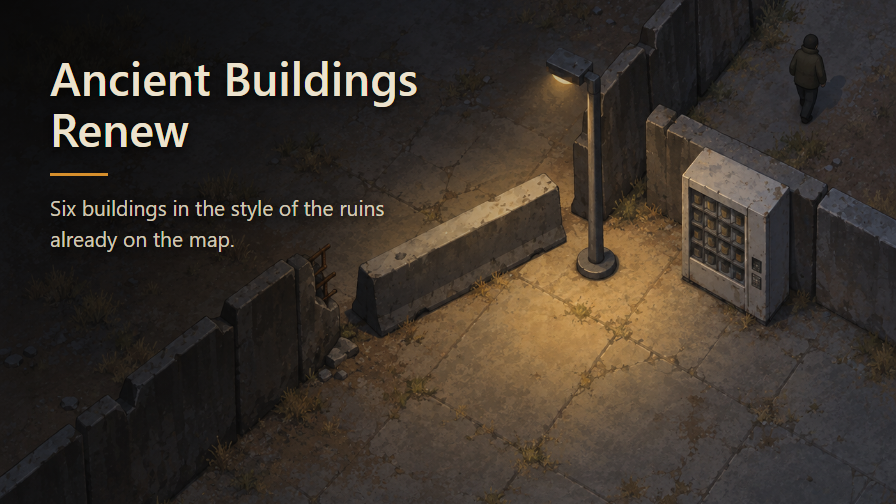
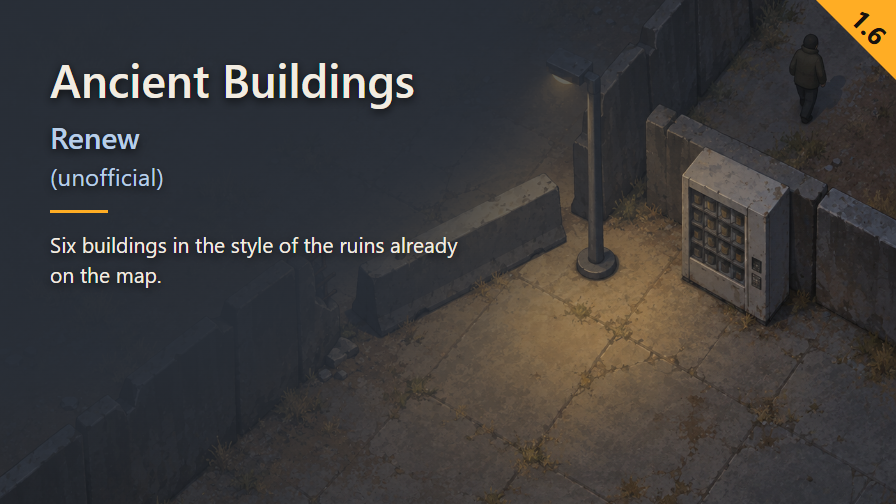
Recompose preview with style guide typography and verified palette

diff --git a/Art/preview.html b/Art/preview.html
@@ -1,0 +1,51 @@
+<!doctype html>
+<meta charset="utf-8">
+<title>Ancient Buildings Renew preview</title>
+<style>
+* { box-sizing: border-box; margin: 0; padding: 0; }
+html, body { width: 896px; height: 504px; overflow: hidden; }
+body { font-family: "Segoe UI", system-ui, sans-serif; }
+.frame { position: relative; width: 896px; height: 504px;
+  background: url('Preview.png') center/cover no-repeat; }
+.veil { position: absolute; inset: 0;
+  background: radial-gradient(ellipse 900px 680px at top left, rgba(var(--veil-rgb), .94) 0%, rgba(var(--veil-rgb), .90) 55%, rgba(var(--veil-rgb), 0) 100%); }
+.text { position: absolute; left: 50px; top: 54px;
+  color: var(--inkPrimary); text-shadow: 0 3px 10px rgba(0,0,0,.75); }
+h1 { font-size: 46px; font-weight: 600; line-height: 1.1; letter-spacing: 0; }
+h1 .suffix { font-size: .65em; color: var(--inkSecondary); }
+.tag { margin-top: 8px; font-size: 24px; font-weight: 400; line-height: 1.1;
+  letter-spacing: .2px; color: var(--inkSecondary); }
+.rule { width: 58px; height: 3px; background: var(--accent); margin: 20px 0 16px; }
+p { width: 430px; font-size: 21px; font-weight: 400; line-height: 1.45; letter-spacing: 0; }
+.badge { position: absolute; right: 0; top: 0; width: 80px; height: 80px;
+  clip-path: polygon(0 0,100% 0,100% 100%); background: var(--accent); }
+.version { position: absolute; left: 869px; top: 27px;
+  transform: translate(-50%,-50%) rotate(45deg); color: var(--badgeInk);
+  font-size: 26px; font-weight: 700; line-height: 1; }
+</style>
+<div class="frame">
+  <div class="veil"></div>
+  <div class="text">
+    <h1>Ancient Buildings<br><span class="suffix">Renew</span></h1>
+    <div class="tag">(unofficial)</div>
+    <div class="rule"></div>
+    <p>Six buildings in the style of the ruins already on the map.</p>
+  </div>
+  <div class="badge"></div><div class="version"></div>
+</div>
+<script>
+window.previewReady = (async () => {
+  const palette = await (await fetch('preview-palette.json')).json();
+  for (const [key,value] of Object.entries(palette)) document.documentElement.style.setProperty('--'+key,value);
+  document.documentElement.style.setProperty('--veil-rgb', palette.veil.match(/[a-f\d]{2}/gi).map(v=>parseInt(v,16)).join(','));
+  const xml = new DOMParser().parseFromString(await (await fetch('../Mod/About/About.xml')).text(),'application/xml');
+  const versions = [...xml.querySelectorAll('supportedVersions > li')].map(e=>e.textContent.trim()).filter(v=>/^\d+(\.\d+)+$/.test(v));
+  versions.sort((a,b)=>{const aa=a.split('.').map(Number),bb=b.split('.').map(Number); for(let i=0;i<Math.max(aa.length,bb.length);i++){const d=(bb[i]||0)-(aa[i]||0);if(d)return d;}return 0;});
+  if (!versions.length) throw new Error('No declared stable version');
+  document.querySelector('.version').textContent=versions[0];
+  await document.fonts.ready;
+  await Promise.all([...document.images].map(i=>i.decode()));
+  const bg = new Image(); bg.src='Preview.png'; await bg.decode();
+})();
+</script>
+

diff --git a/_tools/preview.html b/_tools/preview.html
@@ -1,70 +1,4 @@
 <!doctype html>
 <meta charset="utf-8">
-<title>Preview</title>
-<style>
-  /* The page IS the banner: 896 x 504, no margin, no scrollbar. Chrome headless
-     screenshots it at exactly this size, so the text is composed at its final
-     size and the glyphs are never resampled. The background image is the
-     full-resolution source, scaled here rather than beforehand. */
-  html, body { margin: 0; padding: 0; }
-  body { width: 896px; height: 504px; overflow: hidden; }
-
-  /* The source is 1402 x 1122, nearly 5:4, so cover crops a band off the top
-     and the bottom. Both are bare ground: dark gravel above, empty flagstones
-     below. The lamp, the barrier, the vending cabinet and the walking settler
-     all sit in the middle band and survive untouched. */
-  .frame {
-    position: relative;
-    width: 896px; height: 504px;
-    background: url("../Art/Preview-source.png") center/cover no-repeat;
-  }
-
-  /* Radial darkening from the top-left corner, so the title sits on a calm
-     ground without a visible rectangle. Values from STYLE_RIMWORLD.md. */
-  .frame::after {
-    content: "";
-    position: absolute; inset: 0;
-    background: radial-gradient(circle at 0% 0%,
-                rgba(6, 5, 4, .86) 0%,
-                rgba(6, 5, 4, 0) 74%);
-  }
-
-  .text {
-    position: absolute; z-index: 1;
-    left: 50px; top: 52px;
-    font-family: "Segoe UI", system-ui, sans-serif;
-    color: #ECE2CD;
-    text-shadow: 0 3px 10px rgba(0, 0, 0, .75);
-  }
-
-  /* Two lines at 46: on one line the name runs past 700px and crosses the
-     barrier into the lit half. */
-  h1 {
-    margin: 0;
-    font-size: 46px; font-weight: 600; line-height: 1.1;
-    letter-spacing: .2px;
-  }
-
-  .rule {
-    width: 58px; height: 3px;
-    background: #D68F2C;
-    margin: 20px 0 16px;
-  }
-
-  /* 400px rather than the usual 430: past that the second line reaches the
-     left tip of the concrete barrier. */
-  p {
-    margin: 0;
-    width: 400px;
-    font-size: 21px; font-weight: 400; line-height: 1.45;
-    color: rgba(236, 226, 205, .88);
-  }
-</style>
-
-<div class="frame">
-  <div class="text">
-    <h1>Ancient Buildings<br>Renew</h1>
-    <div class="rule"></div>
-    <p>Six buildings in the style of the ruins already on the map.</p>
-  </div>
-</div>
+<meta http-equiv="refresh" content="0;url=../Art/preview.html">
+<title>Preview composition moved to Art/preview.html</title>

diff --git a/STATUS.md b/STATUS.md
@@ -49,6 +49,36 @@ files.
 `Mod/About/ModIcon.png` at 128 × 128, both built from the full-resolution sources in `Art/` by
 `_tools/build-about.sh`. Neither is SyndicateGamingNetwork's; theirs is no longer shipped.
 
+Preview overlay recomposed on 2026-09-12 according to `../STYLE_RIMWORLD.md`:
+
+- Illustration retained unchanged. `Art/Preview.png` is the unlettered source, copied from
+  `Art/Preview-source.png`, which remains preserved. No replacement illustration generated.
+- Composition and layout: `Art/preview.html`; sole color reference: `Art/preview-palette.json`.
+  Rebuild with `node Art/render-preview.cjs` (Node.js, playwright, sharp and Chrome required).
+  `_tools/build-about.sh` delegates the preview to this renderer.
+- The cool slate stone ground supplies the veil and the dominant blue family of the lighter
+  secondary tag and title-suffix ink. The lamppost's warm light supplies the vivid amber accent,
+  saturated for the rule and version badge; its warm orange family clearly contrasts with the
+  dominant cool slate blue. Strong title words and summary use exactly the same primary ink.
+  Renew remains in the title at 65% (29.9 px), weight 600, in secondary ink, using a direct span
+  without nested scaling. The unofficial tag remains a separate line.
+- The dark veil holds opacity across the full text area before fading, because the original
+  short gradient failed contrast over the illuminated barrier. Layout starts at (50, 54),
+  with a 46 px title, separate 24 px unofficial tag, 58 by 3 px rule and 430 px summary.
+- Chrome's platform-font inspection confirms Segoe UI (Semibold title, Regular tag/summary,
+  Bold badge), with no fallback. Capture waits for `document.fonts.ready` and the image.
+  Badge version 1.6 is selected from the delivered About.xml's supportedVersions.
+- Final output: `Mod/About/Preview.png`, 896 by 504, 616784 bytes. Visually checked at full
+  size and at 268 px (`Art/preview-268.png`): no clipping or overlapping text, identifiable
+  title/version, readable reduced Renew suffix and visible rule. The illustration's buildings
+  remain distinguishable; amber accent remains distinct from the blue secondary ink.
+- Contrast checked against the rendered background without text (`Art/preview-background.png`),
+  across every pixel of each text bounding box, including corners: title 10.47:1,
+  Renew suffix 8.25:1, tag 6.62:1, summary 6.21:1; badge 9.97:1 against its opaque fill.
+  All exceed 4.5:1.
+  Font, geometry, contrast and size measurements are retained in `Art/preview-qa.json`.
+  Nothing published.
+
 `workshop` is empty because nothing has been uploaded. Read `PUBLISHING.md` before it is: the
 name, the description and the `packageId` are frozen when the Workshop item is created, and
 `SetItemDescription` never runs again.
